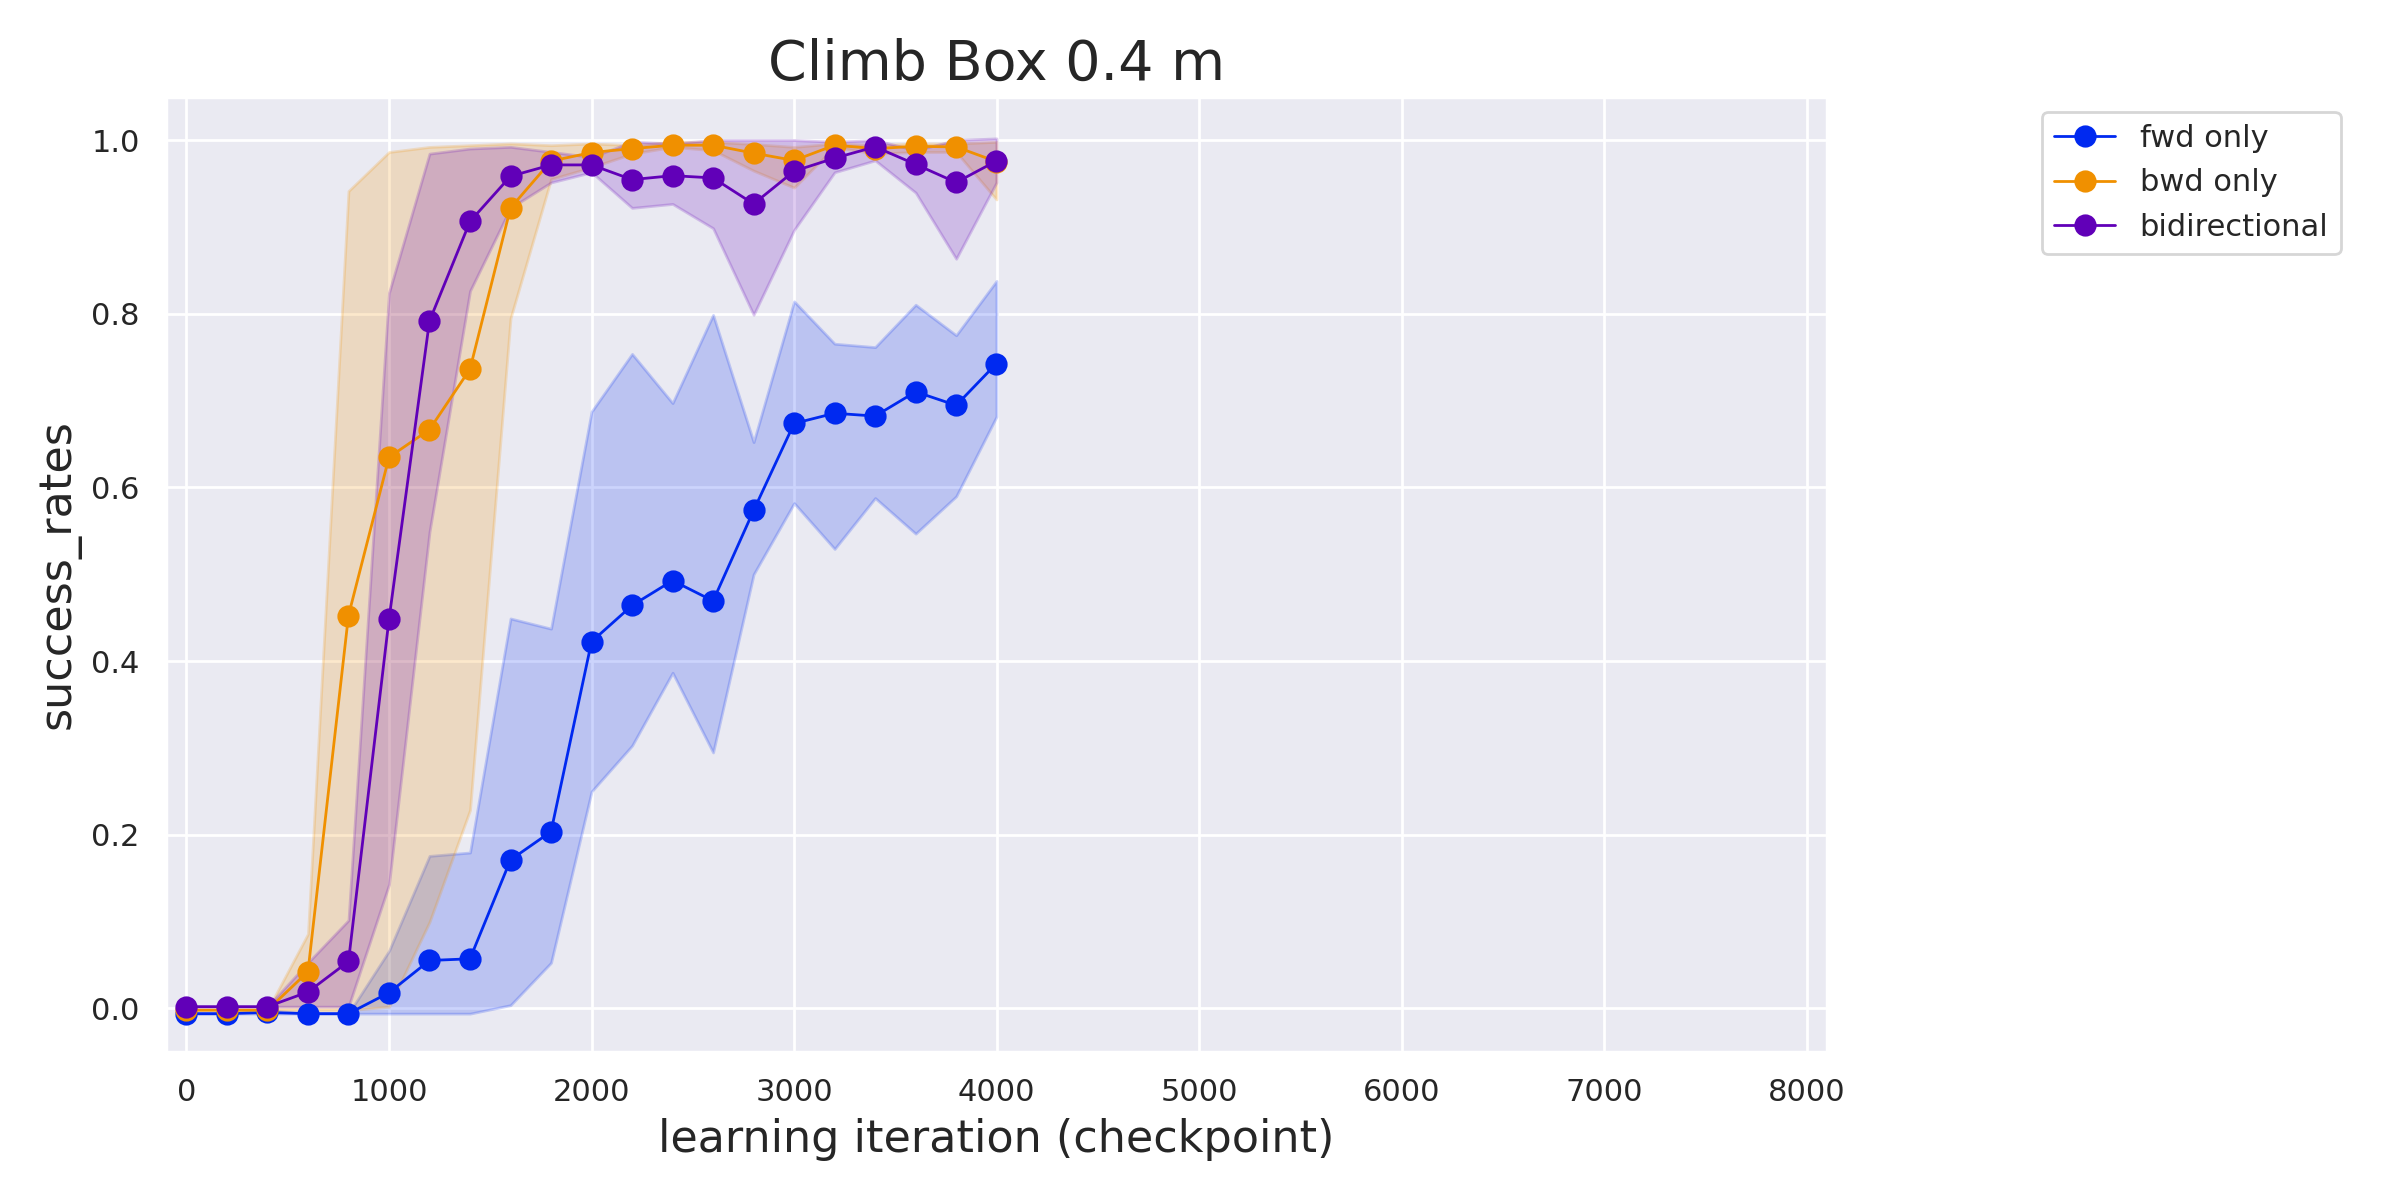
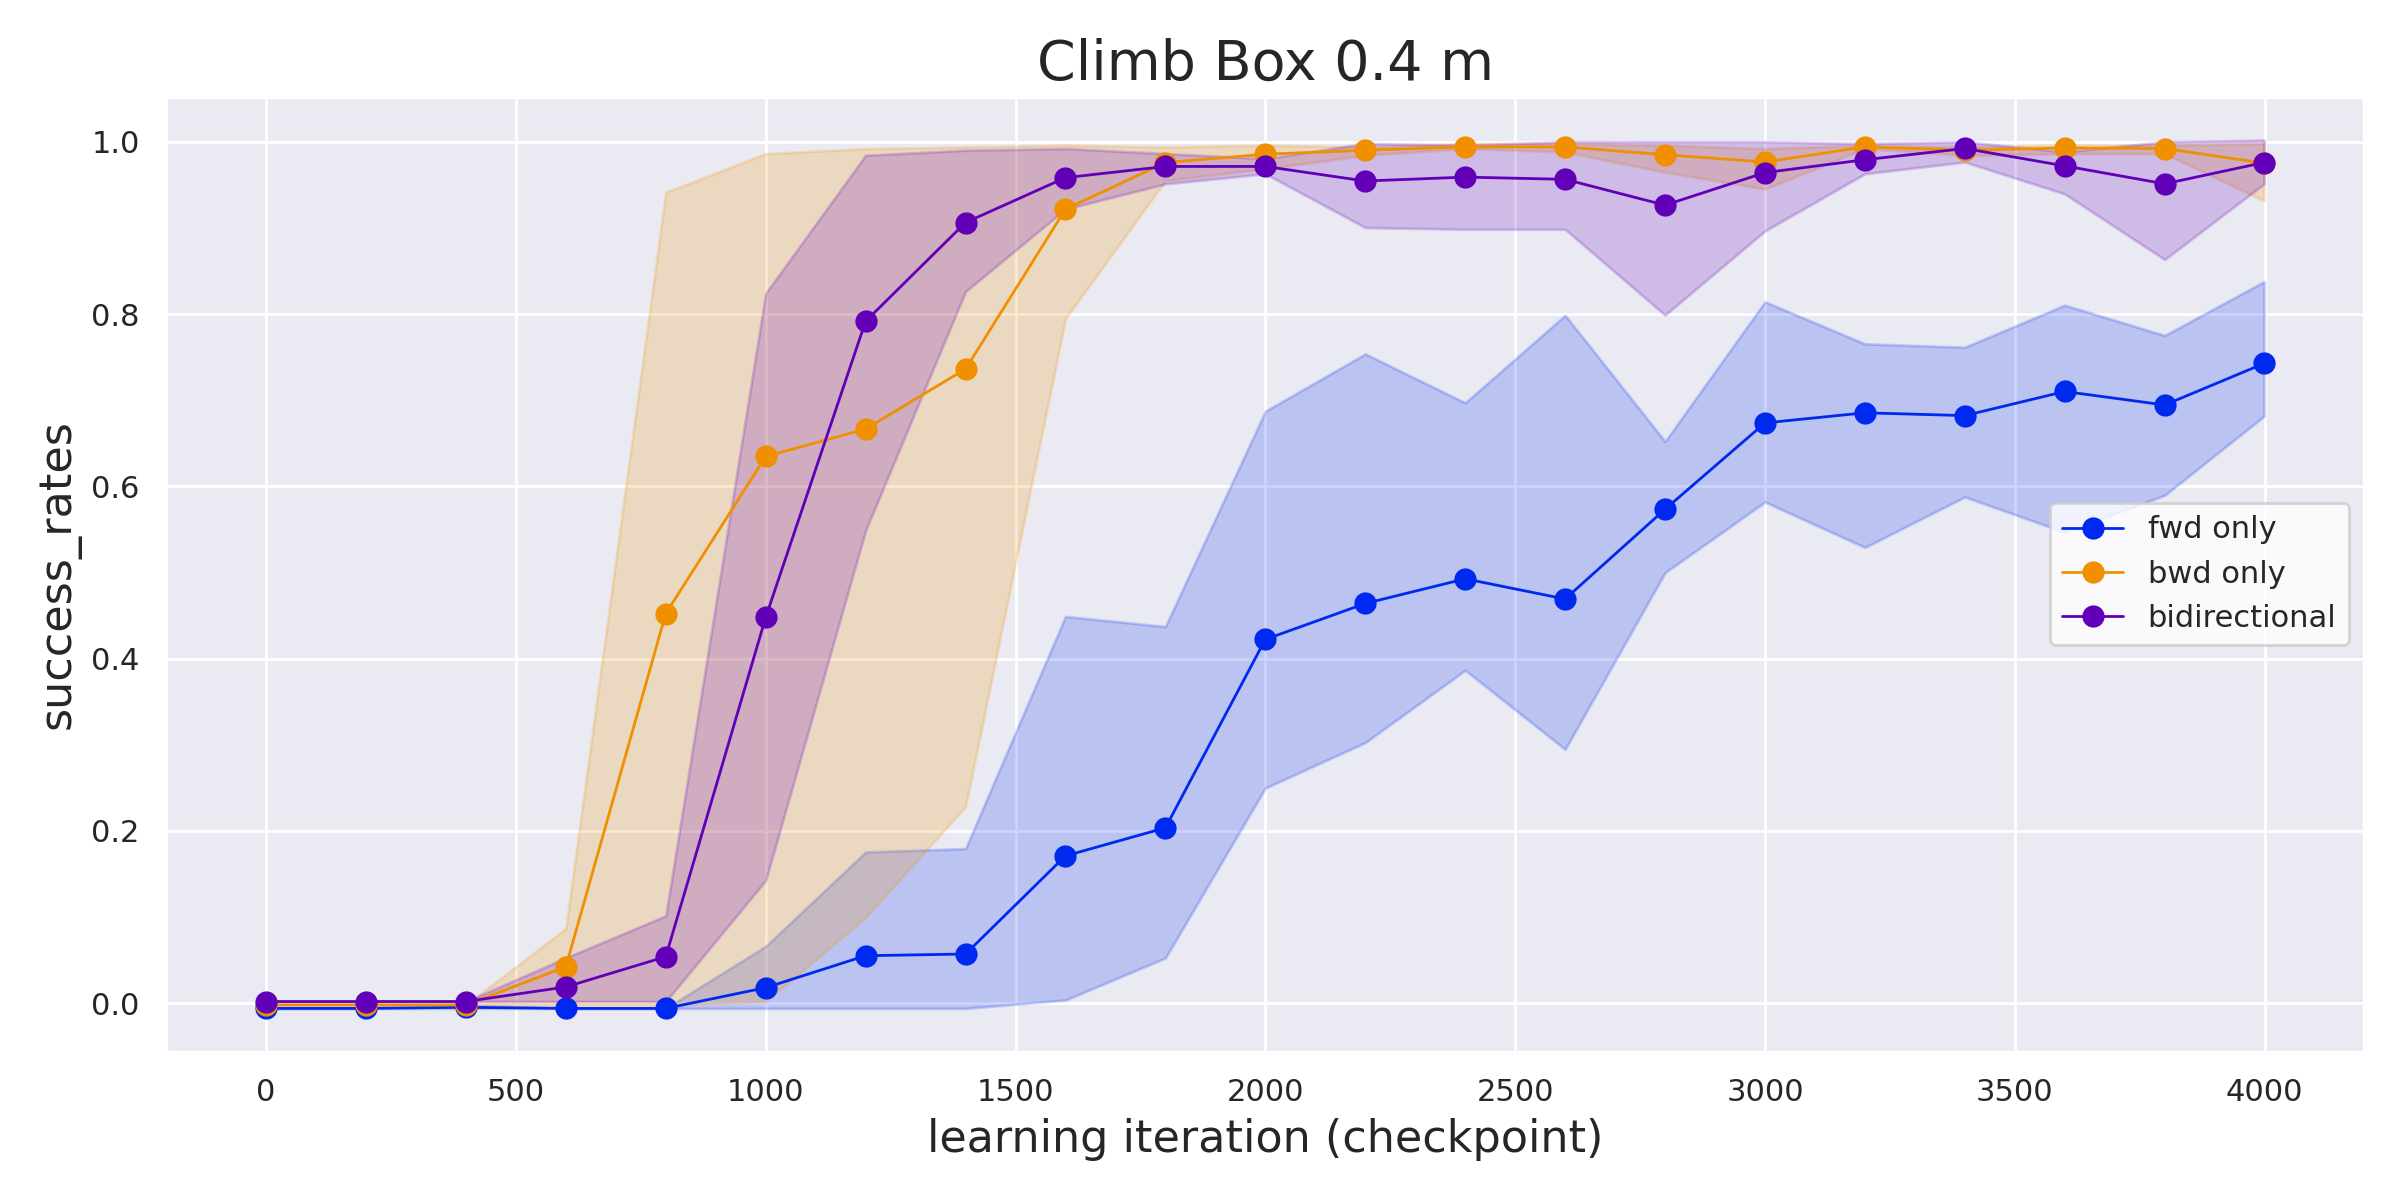
Adds experiment figures

diff --git a/iclr/sections/05_experiments.tex b/iclr/sections/05_experiments.tex
@@ -66,6 +66,36 @@ We conduct four experiments to answer the following research questions:
 % TODO (answers RQ3)
 
 \subsection{Real-world terrains}\label{sec:exp_real_world}
-% TODO: generate graphics
+
+\begin{figure}[h]
+    \centering
+    \hfill
+    \begin{subfigure}[t]{0.35\linewidth}
+        \centering
+        \includegraphics[width=\linewidth]{img/scans/ra_150.png}
+        \caption{Iteration 150.}\label{fig:ra_150}
+    \end{subfigure}
+    \hfill
+    \begin{subfigure}[t]{0.35\linewidth}
+        \centering
+        \includegraphics[width=\linewidth]{img/scans/ra_500.png}
+        \caption{Iteration 500.}\label{fig:ra_500}
+    \end{subfigure}
+    \hfill\strut\\
+    \hfill
+    \begin{subfigure}[t]{0.35\linewidth}
+        \centering
+        \includegraphics[width=\linewidth]{img/scans/ra_1000.png}
+        \caption{Iteration 1000.}\label{fig:ra_1000}
+    \end{subfigure}
+    \hfill
+    \begin{subfigure}[t]{0.35\linewidth}
+        \centering
+        \includegraphics[width=\linewidth]{img/scans/ra_2000.png}
+        \caption{Iteration 2000.}\label{fig:ra_2000}
+    \end{subfigure}
+    \hfill\strut{}
+    \caption{Samples of the explored regions on the real-world terrain at different training iterations. {\color{blue} Blue} indicates the intermediate goals (forward expansion), {\color{orange} orange} indicates the initial states (backward expansion), and the black box represents the task space.}\label{fig:ra}
+\end{figure}
 % TODO: add table with learning iterations needed
 % TODO
